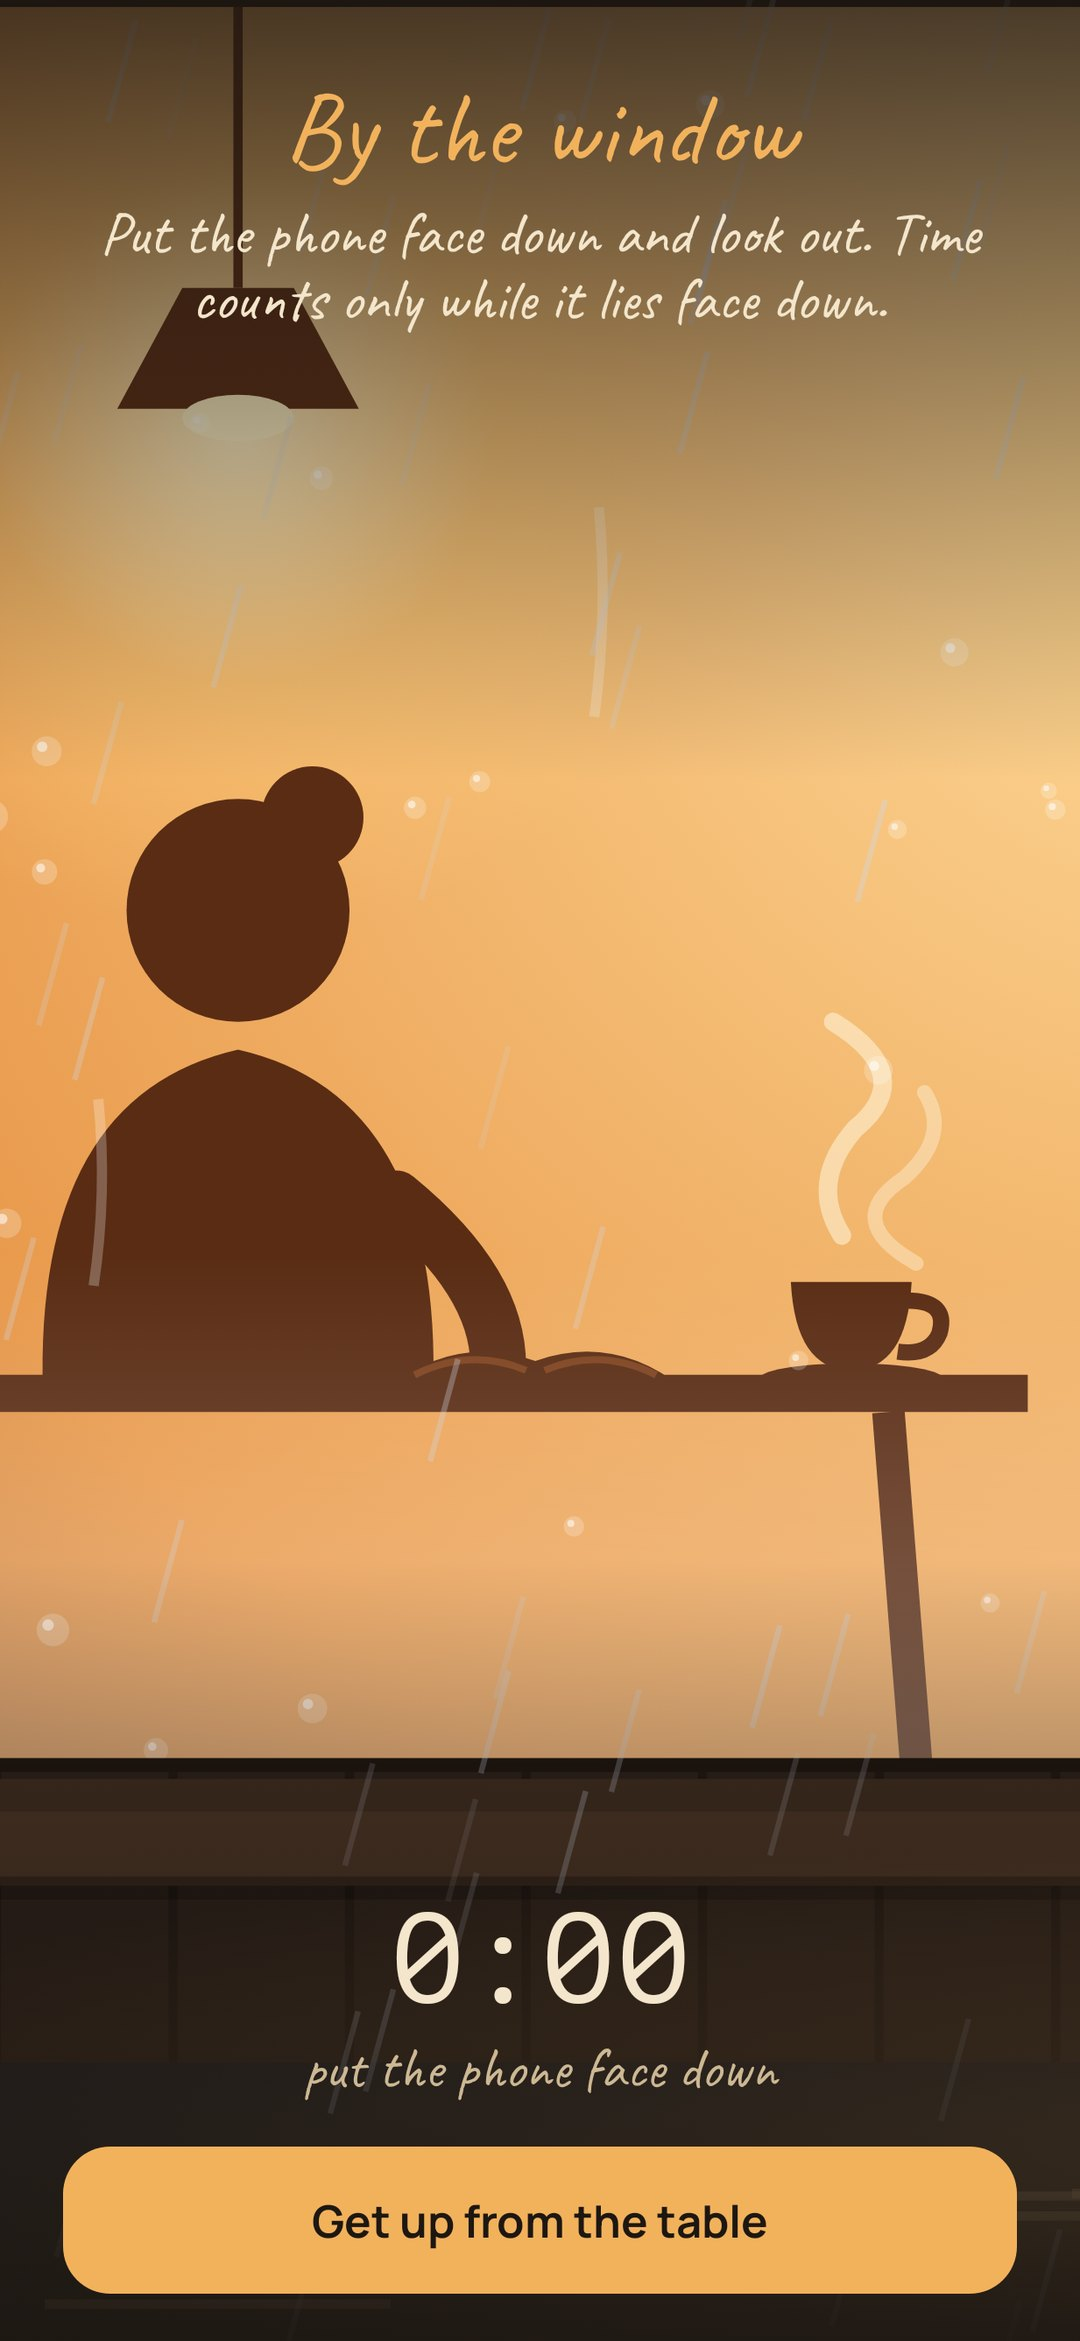
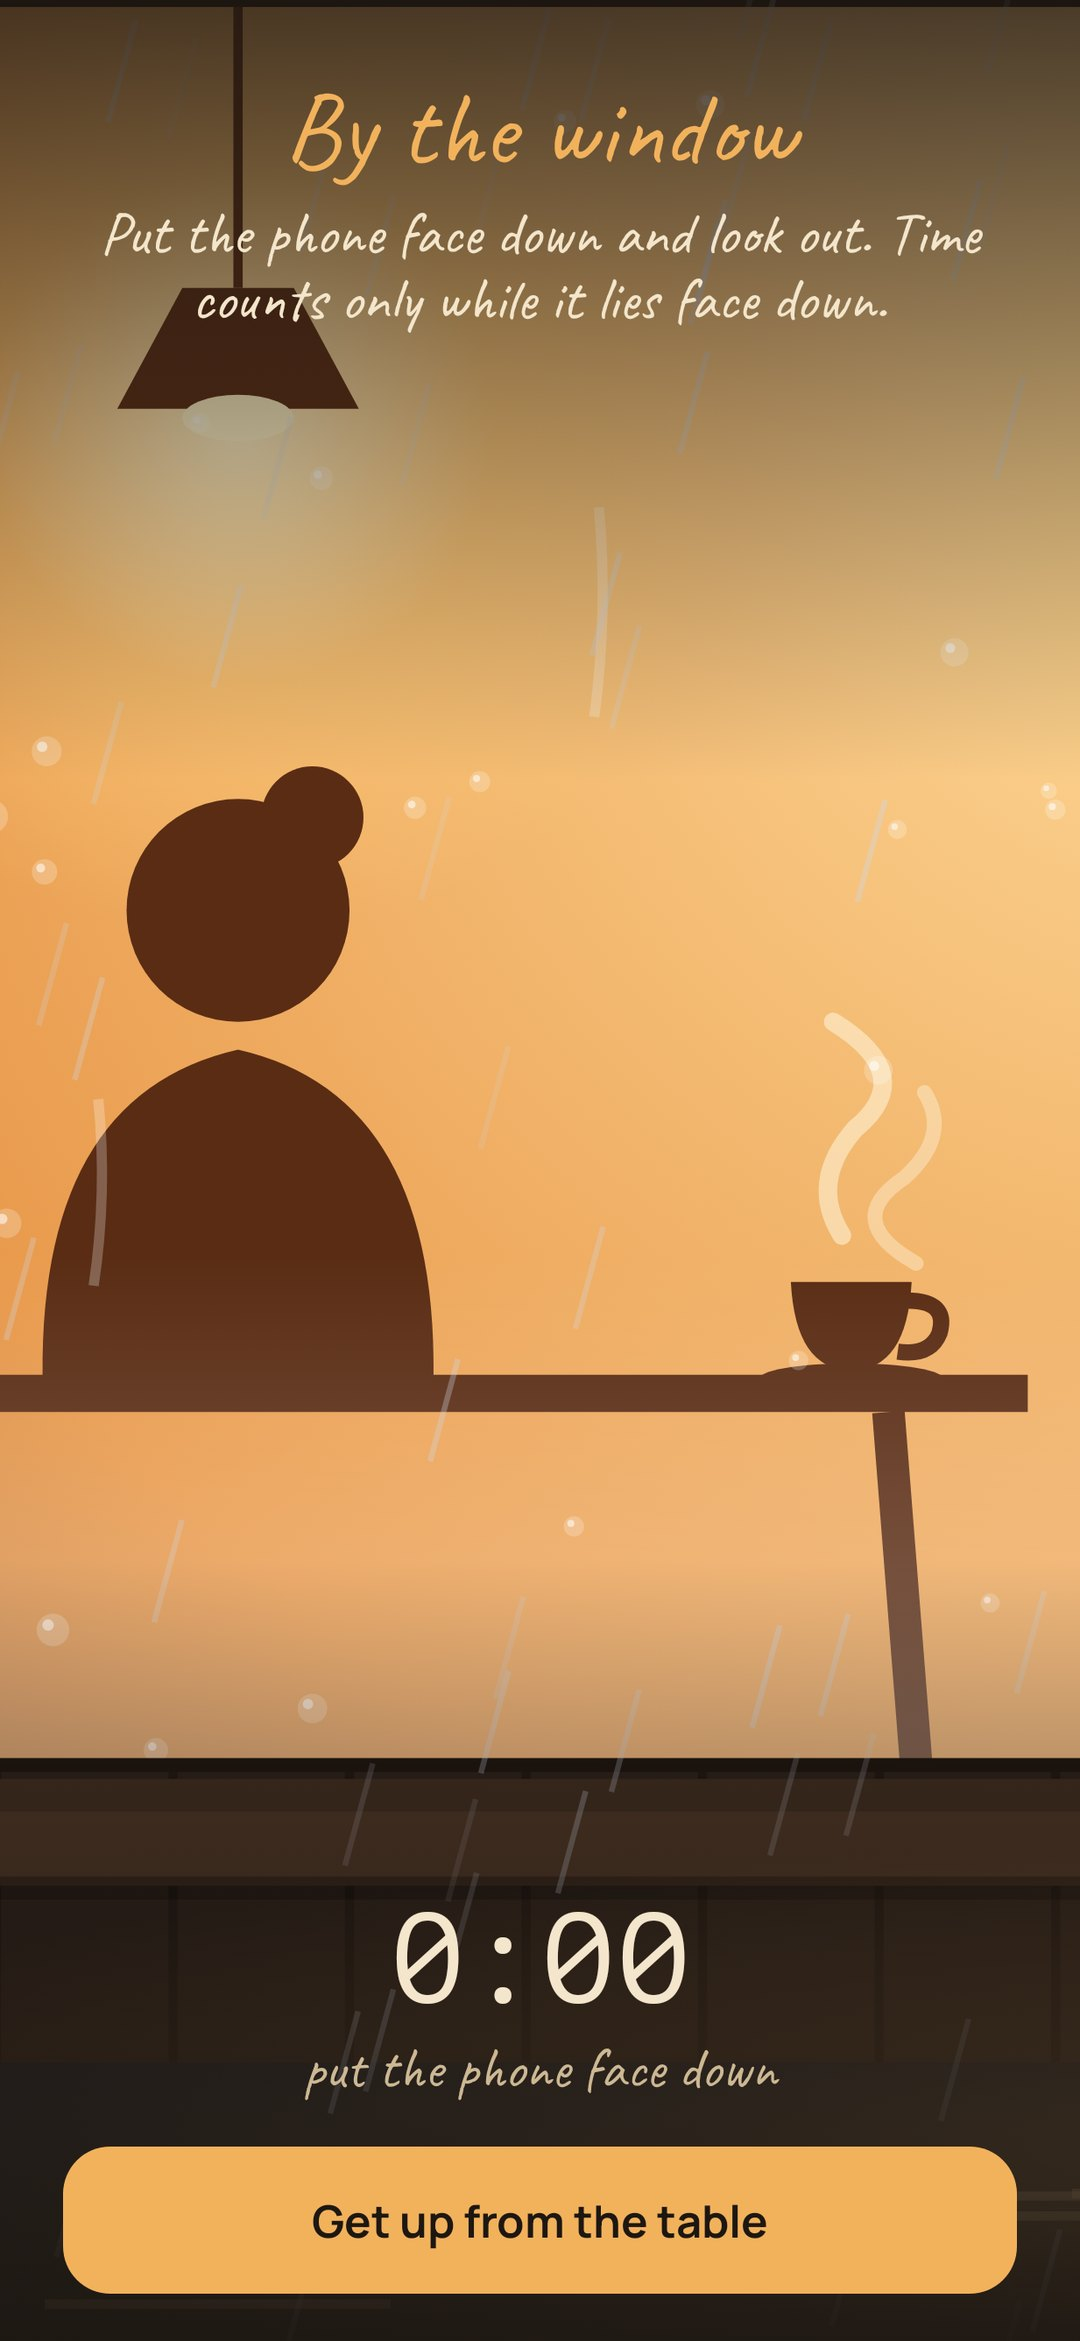
Window scene: only the cup on the table, no arm and book

Changed region(s): [[0.3667, 0.4989, 0.6111, 0.5925]]

diff --git a/app/src/main/java/app/theusual/ui/art/Window.kt b/app/src/main/java/app/theusual/ui/art/Window.kt
@@ -45,7 +45,7 @@ val InsideDark = Rect(170f, 80f, 930f, 560f)
 
 /**
  * The café from the street on a rainy evening: a striped awning, a big window full of lamplight,
- * someone reading at the table by it with a cup, shelves and the counter behind, the name in gold
+ * someone at the table by it with a cup, shelves and the counter behind, the name in gold
  * leaf on the glass, a fogged-up corner with a heart drawn in it, a black cat on the sill, a
  * street lamp, wet cobbles. With [lights] off the café has closed: blue dark inside, chairs up on
  * the table, a sign on the door.
@@ -162,7 +162,7 @@ private fun DrawScope.inside(lights: Boolean, b: Bits, steam: Float) {
         drawLine(sil, Offset(190f, WY + 300f), Offset(470f, WY + 300f), 8f)
         drawLine(sil, Offset(220f, WY + 304f), Offset(214f, WY + 380f), 7f)
         drawLine(sil, Offset(440f, WY + 304f), Offset(446f, WY + 380f), 7f)
-        if (lights) reader(sil, shelf, steam) else chairsUp(sil)
+        if (lights) reader(sil, steam) else chairsUp(sil)
         // A heart drawn with a finger in the fogged glass.
         val heart = Path().apply {
             moveTo(820f, WY + 330f)
@@ -177,15 +177,11 @@ private fun DrawScope.inside(lights: Boolean, b: Bits, steam: Float) {
     }
 }
 
-/** Someone reading at the table with a cup of something hot. */
-private fun DrawScope.reader(sil: Color, light: Color, steam: Float) {
+/** Someone at the table, looking out, with a cup of something hot. */
+private fun DrawScope.reader(sil: Color, steam: Float) {
     drawCircle(sil, 24f, Offset(300f, WY + 196f))
     drawCircle(sil, 11f, Offset(316f, WY + 176f))
     drawPath(Path().apply { moveTo(258f, WY + 300f); quadraticTo(256f, WY + 236f, 300f, WY + 226f); quadraticTo(344f, WY + 236f, 342f, WY + 300f); close() }, sil)
-    drawPath(Path().apply { moveTo(334f, WY + 258f); quadraticTo(356f, WY + 276f, 356f, WY + 294f) }, sil, style = Stroke(12f, cap = StrokeCap.Round))
-    // An open book lying on the table.
-    drawPath(Path().apply { moveTo(332f, WY + 299f); quadraticTo(347f, WY + 287f, 364f, WY + 293f); quadraticTo(381f, WY + 287f, 396f, WY + 299f); close() }, sil)
-    drawPath(Path().apply { moveTo(338f, WY + 296f); quadraticTo(350f, WY + 290f, 362f, WY + 295f); moveTo(366f, WY + 295f); quadraticTo(378f, WY + 290f, 390f, WY + 296f) }, light.copy(alpha = .7f), style = Stroke(1.5f))
     // A cup on its saucer.
     drawOval(sil, Offset(412f, WY + 293.5f), Size(40f, 7f))
     drawPath(Path().apply { moveTo(419f, WY + 276f); lineTo(445f, WY + 276f); quadraticTo(444f, WY + 295f, 432f, WY + 295f); quadraticTo(420f, WY + 295f, 419f, WY + 276f); close() }, sil)
